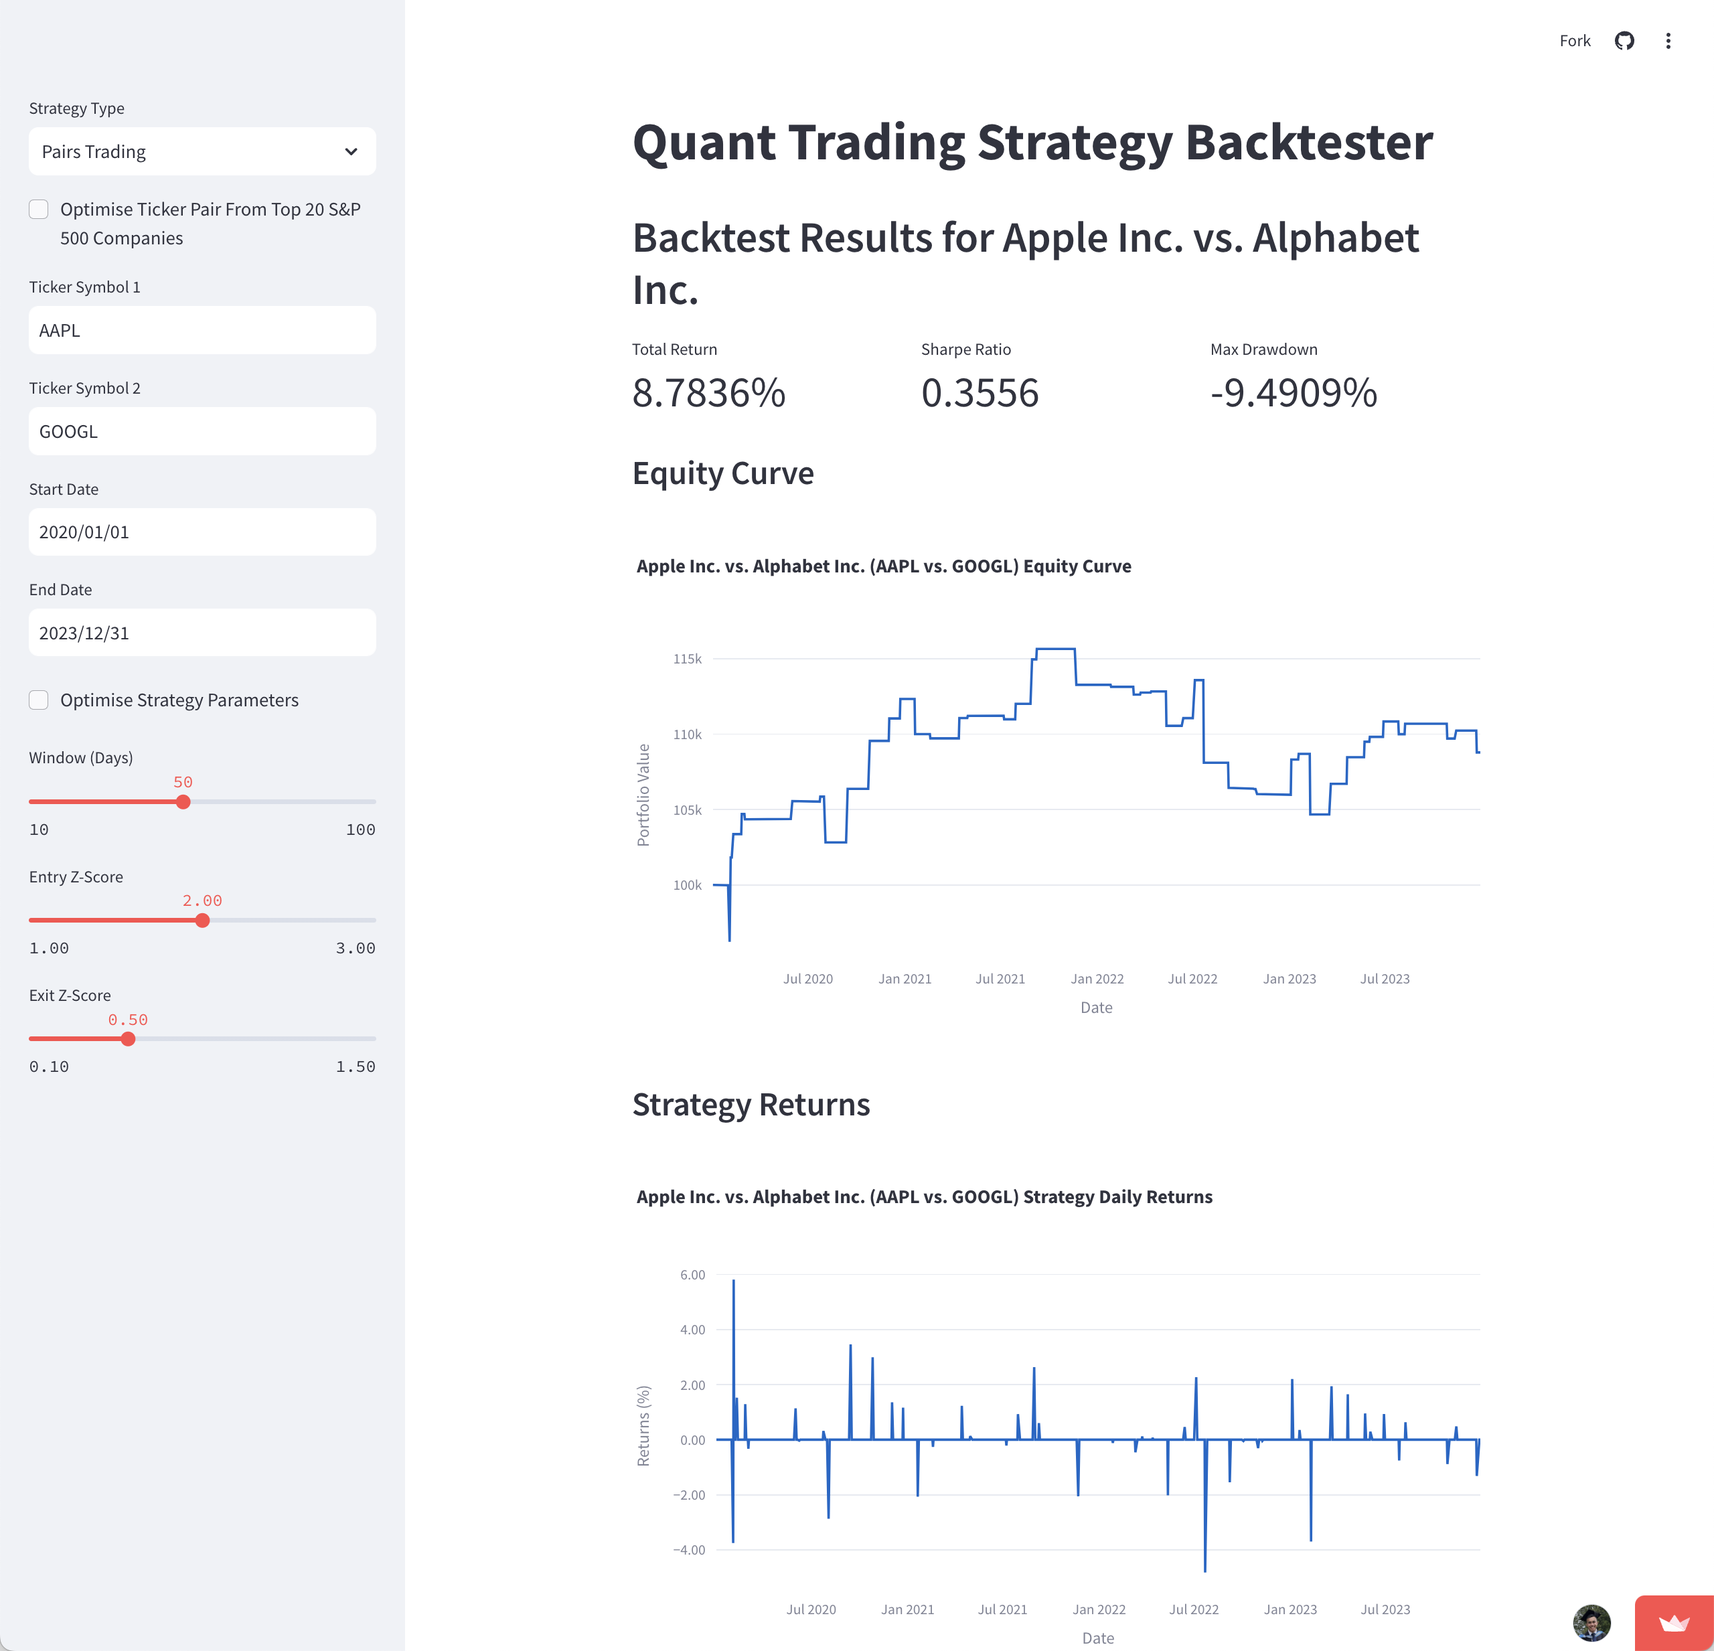
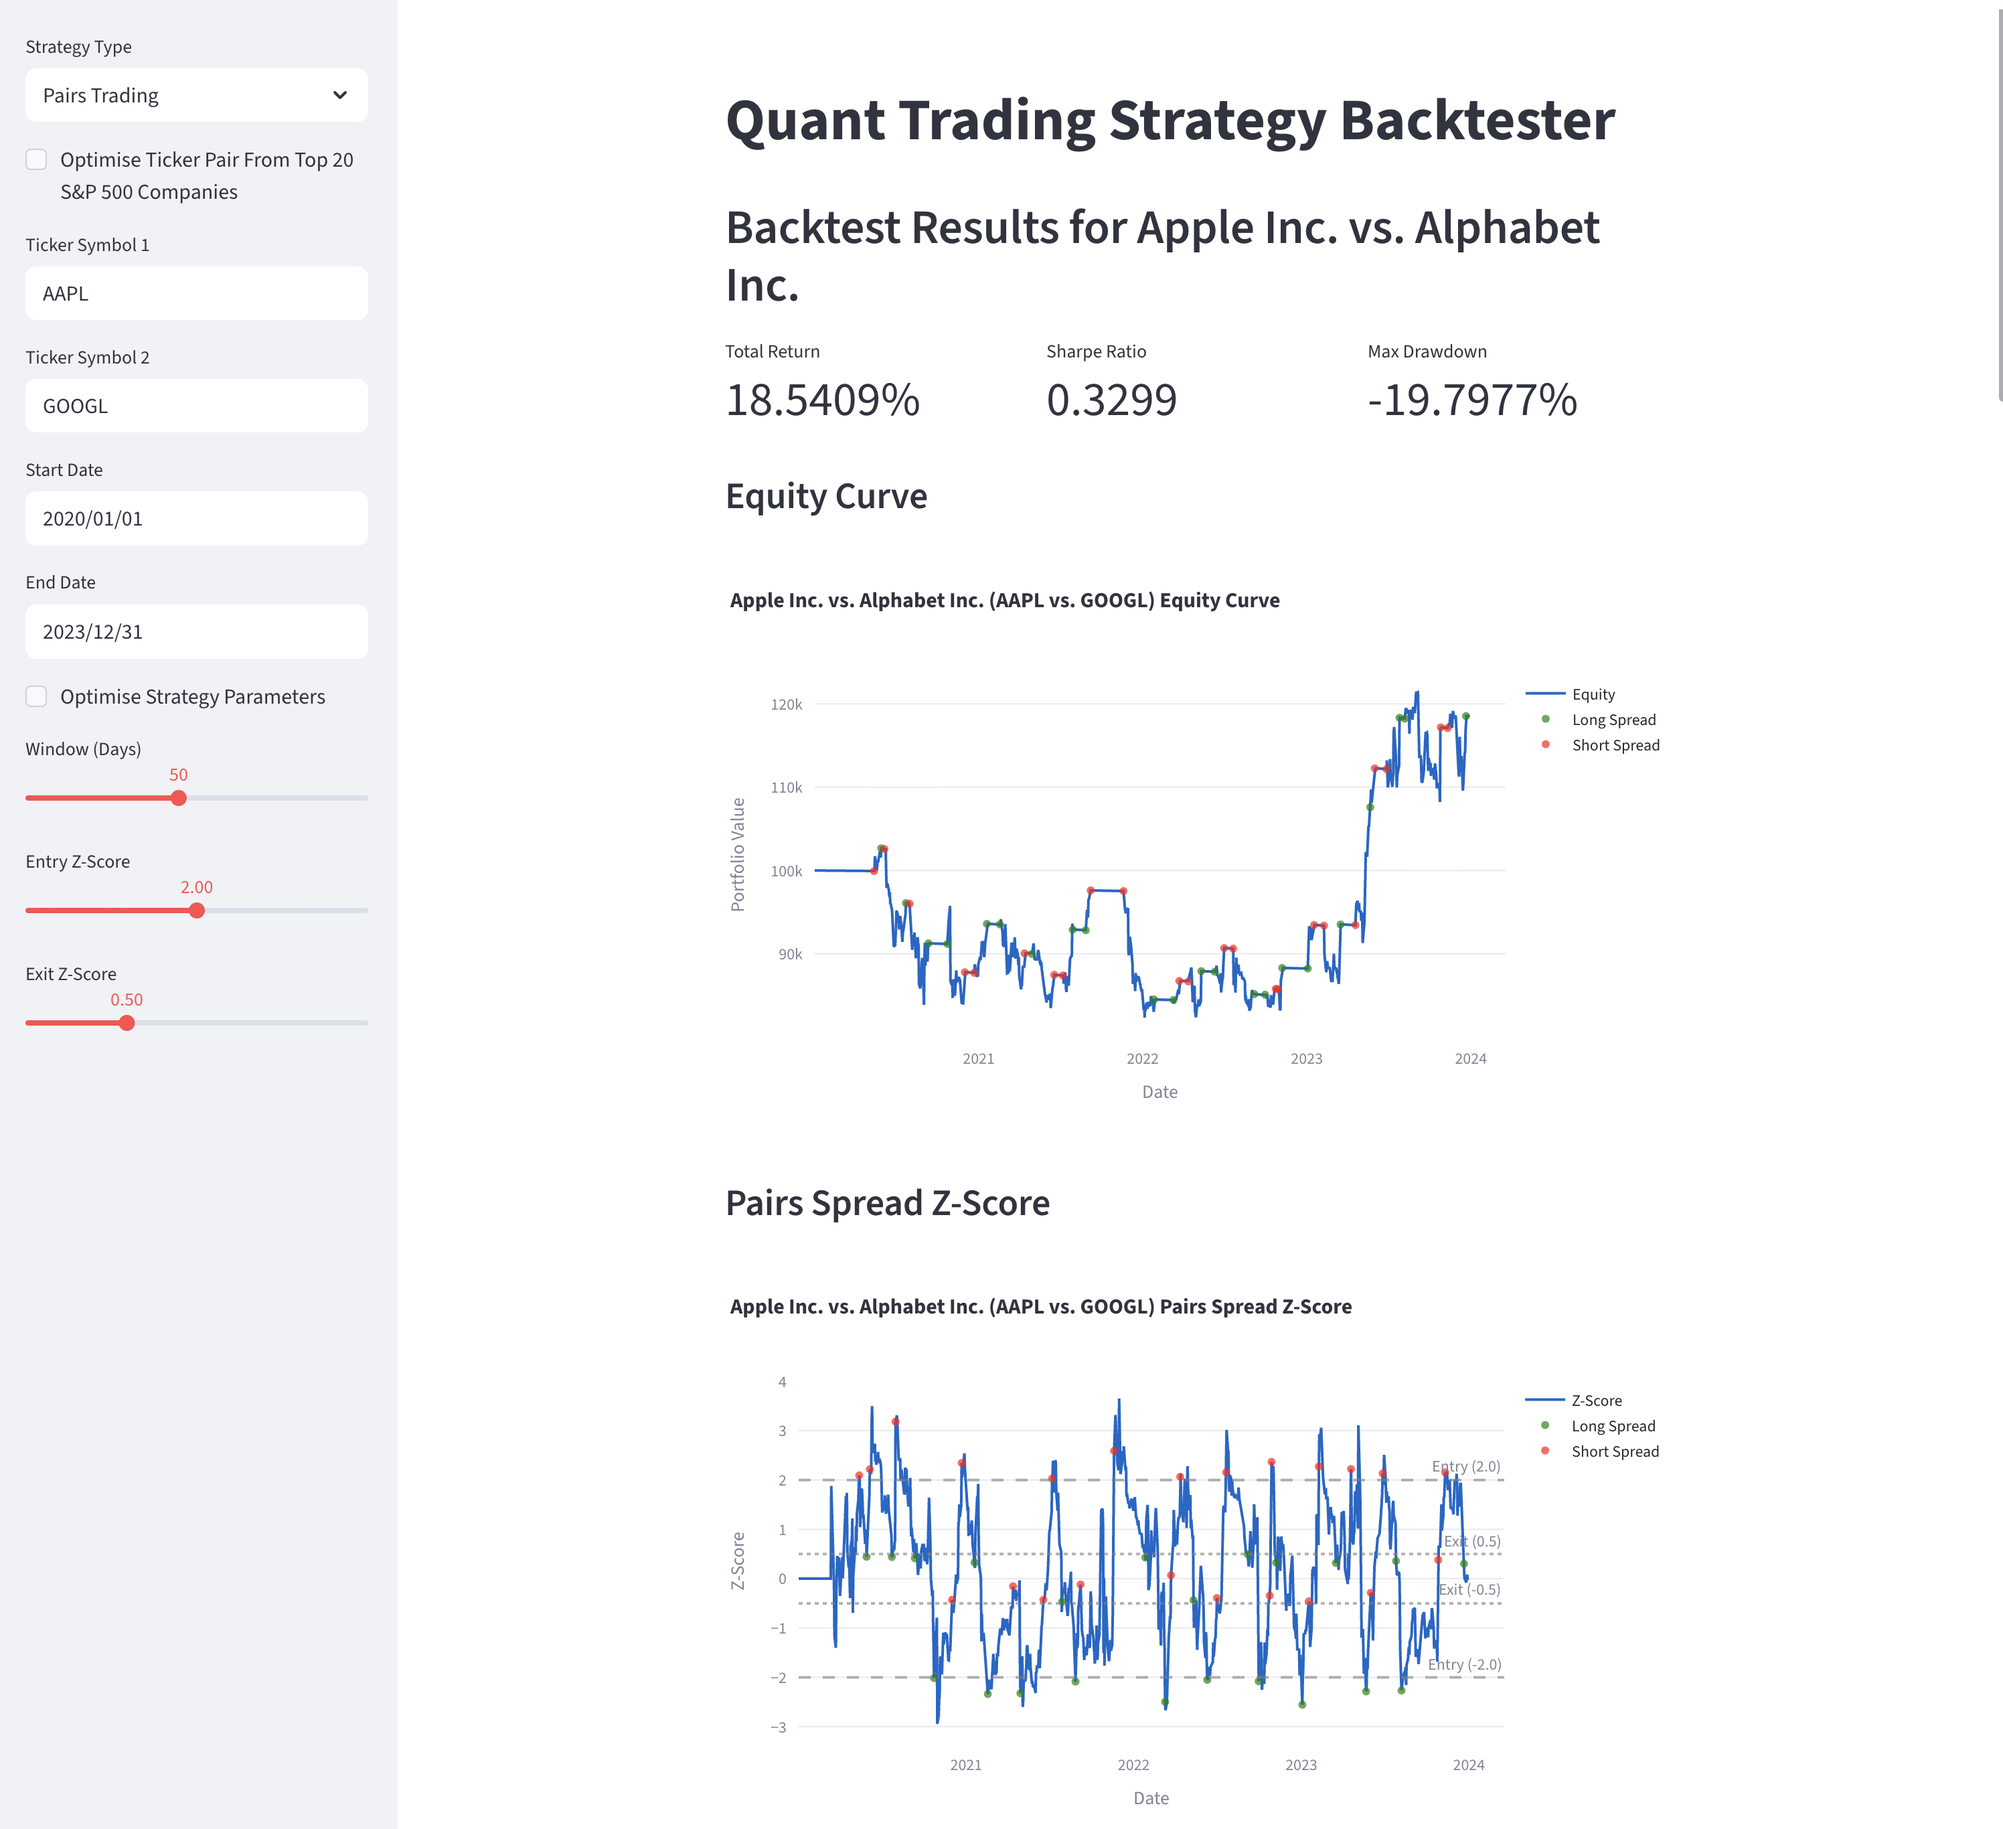
fix: Update screenshots in README

diff --git a/README.md b/README.md
@@ -21,7 +21,8 @@ _Try the deployed app
 <!-- markdownlint-disable-next-line MD033 -->
 <summary>Pairs Trading with Strategy Parameter Optimisation</summary>
 
-![Pairs Trading ](./resources/screenshots/pairs_trading_optimised_strategy_parameters.png)
+![Pairs Trading with Walk-Forward Optimisation 1](./resources/screenshots/pairs_trading_walk_forward_optimised_1.png)
+![Pairs Trading with Walk-Forward Optimisation 2](./resources/screenshots/pairs_trading_walk_forward_optimised_2.png)
 
 </details>
 
